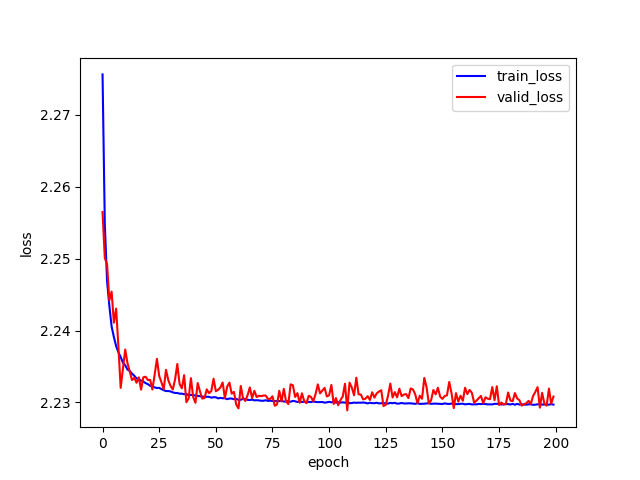
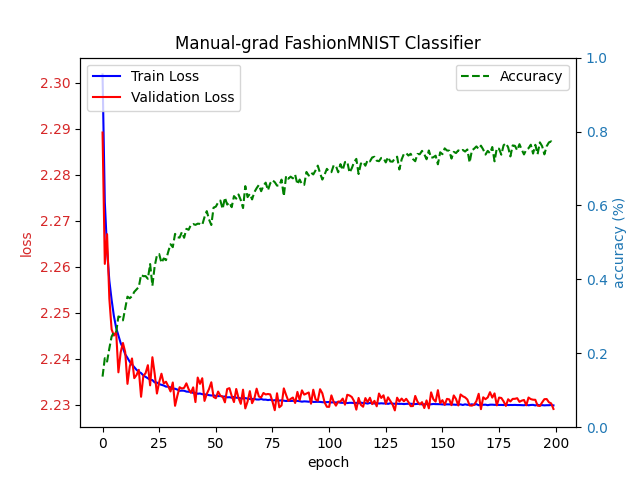
[feature - ch4] Add accuracy metric line to evaluation plot.

diff --git a/chapter-4_linear-neural-networks-for-classification/manual_grad_image_classifier.py b/chapter-4_linear-neural-networks-for-classification/manual_grad_image_classifier.py
@@ -12,11 +12,9 @@ import matplotlib.pyplot as plt
 from loguru import logger
 
 
-class FashionMNIST:
-    labels = (
-        't-shirt', 'trouser', 'pullover', 'dress', 'coat',
-        'sandal', 'shirt', 'sneaker', 'bag', 'ankle boot'
-    )
+class FashionMNISTDataset:
+    """FashionMNIST dataset with image resizing and visualization."""
+    labels = datasets.FashionMNIST.classes
 
     def __init__(
         self,
@@ -33,17 +31,21 @@ class FashionMNIST:
 
     def get_data_loader(self, train: bool = True) -> DataLoader:
         """
-        Each row is a list, in which:
-            #0 is tensor X, its shape = n * 1 * width * height
-            #1 is tensor y, its shape = n * 1, values are indices like [9, 2, ...]
+        Returns a DataLoader object for the dataset.
+
+        Each DataLoader object yields a tuple of two tensors:
+        - X: Image tensor of shape (batch_size, 1, width, height)
+        - y: Label tensor of shape (batch_size,)
         """
         dataset = self.train if train else self.valid
         return DataLoader(dataset, self.batch_size, shuffle=train)
 
     def text_labels(self, indices: torch.Tensor) -> list[str]:
+        """Returns the text labels for the given indices."""
         return [self.labels[int(i)] for i in indices]
 
     def one_hot_labels(self, indices: torch.Tensor) -> torch.Tensor:
+        """Returns one-hot encoded labels for the given indices."""
         rows = len(indices)
         labels = torch.zeros(size=(rows, len(self.labels)))
         for row in range(rows):
@@ -57,10 +59,14 @@ class FashionMNIST:
         num_rows: int,
         num_cols: int,
         titles: list[str] | None = None,
-        scale: float = 2.0
+        scale: float = 2.0,
+        row_spacing: float = 0.5,
     ) -> None:
         figsize = (num_cols * scale, num_rows * scale)
-        _, axes = plt.subplots(num_rows, num_cols, figsize=figsize)
+        _, axes = plt.subplots(num_rows,
+                               num_cols,
+                               figsize=figsize,
+                               gridspec_kw={'hspace': row_spacing})
         axes = axes.flatten()
         for i, (ax, image) in enumerate(zip(axes, images)):
             image = image.numpy().squeeze()
@@ -81,7 +87,7 @@ class FashionMNIST:
 
         if len(batch) == 3:
             X, y, y_pred = batch
-            labels = [l + '\n' + pl
+            labels = ['Real: ' + l + '\n' + 'Pred: ' + pl
                       for l, pl in zip(self.text_labels(y),
                                        self.text_labels(y_pred))]
         elif len(batch) == 2:
@@ -124,7 +130,9 @@ class ManualGradClassifierModel(nn.Module):
         X: torch.Tensor
     ) -> torch.Tensor:
         """
-        Output shape = num_rows * num_classes
+        Forward pass of the model.
+
+        Returns the softmax of shape (num_rows, num_classes).
         """
         self._logits = X @ self._weights + self._bias
         return nn.functional.softmax(self._logits, dim=1)
@@ -175,7 +183,7 @@ class Trainer(TransformMixin):
     def __init__(
         self,
         model: ManualGradClassifierModel,
-        dataset: FashionMNIST,
+        dataset: Dataset,
         loss_measurer: nn.CrossEntropyLoss,
     ) -> None:
         self._model = model
@@ -199,6 +207,7 @@ class Trainer(TransformMixin):
 
 
 class Samples:
+    """Collects samples for correct and wrong predictions."""
     def __init__(
         self,
         max_count: int,
@@ -257,7 +266,7 @@ class Evaluator(TransformMixin):
     def __init__(
         self,
         model: ManualGradClassifierModel,
-        dataset: FashionMNIST,
+        dataset: Dataset,
         loss_measurer: nn.CrossEntropyLoss,
         num_samples: int = 8,
     ) -> None:
@@ -321,34 +330,50 @@ class Evaluator(TransformMixin):
             samples.add(x, y_, y_p_)
 
 
-class LossPlotter:
+class MetricsPlotter:
     def __init__(self) -> None:
         self._epochs = []
         self._train_losses = []
         self._evaluate_losses = []
+        self._accuracies = []
 
     def add(
         self,
         epoch: int,
         train_loss: float,
-        evaluate_loss: float
+        evaluate_loss: float,
+        accuracy: float,
     ) -> None:
         self._epochs.append(epoch)
         self._train_losses.append(train_loss)
         self._evaluate_losses.append(evaluate_loss)
+        self._accuracies.append(accuracy)
 
     def plot(self) -> None:
-        plt.xlabel('epoch')
-        plt.ylabel('loss')
-        plt.plot(self._epochs, self._train_losses, 'b', label='train_loss')
-        plt.plot(self._epochs, self._evaluate_losses, 'r', label='valid_loss')
-        plt.legend()
-        plt.title("FashionMNIST Classifier")
+        _, ax1 = plt.subplots()
+
+        # Plot losses on the first y-axis
+        ax1.set_xlabel('epoch')
+        ax1.set_ylabel('loss', color='tab:red')
+        ax1.plot(self._epochs, self._train_losses, 'b', label='Train Loss')
+        ax1.plot(self._epochs, self._evaluate_losses, 'r', label='Validation Loss')
+        ax1.tick_params(axis='y', labelcolor='tab:red')
+        ax1.legend(loc='upper left')
+
+        # Create a second y-axis for accuracy
+        ax2 = ax1.twinx()
+        ax2.set_ylabel('accuracy (%)', color='tab:blue')
+        ax2.plot(self._epochs, self._accuracies, 'g', label='Accuracy', linestyle='--')
+        ax2.tick_params(axis='y', labelcolor='tab:blue')
+        ax2.set_ylim(0, 1.0)
+        ax2.legend(loc='upper right')
+
+        plt.title("Manual-grad FashionMNIST Classifier")
         plt.show()
 
 
 def main(
-    show_examples: bool = False
+    preview_dataset: bool = True
 ) -> None:
     num_channels = 1
     width = 32
@@ -357,10 +382,10 @@ def main(
     max_epochs = 200
     learning_rate = 0.01
 
-    dataset = FashionMNIST(resize=(width, height))
-    if show_examples:
+    dataset = FashionMNISTDataset(resize=(width, height))
+    if preview_dataset:
         batch = next(iter(dataset.get_data_loader(False)))
-        dataset.visualize(batch[:16])
+        dataset.visualize(batch)
 
     num_classes = len(dataset.labels)
     model = ManualGradClassifierModel(
@@ -369,16 +394,14 @@ def main(
     loss_measurer = nn.CrossEntropyLoss()
     trainer = Trainer(model, dataset, loss_measurer)
     evaluator = Evaluator(model, dataset, loss_measurer, num_samples)
-    plotter = LossPlotter()
+    plotter = MetricsPlotter()
 
     for epoch in range(max_epochs):
         train_loss = trainer.train()
         evaluator.evaluate()
-        evaluate_loss = evaluator.loss
-        accuracy = evaluator.accuracy
         logger.info("epoch #{}, train_loss = {}, evaluate_loss = {}, accuracy = {}",
-                    epoch, train_loss, evaluate_loss, accuracy)
-        plotter.add(epoch, train_loss, evaluate_loss)
+                    epoch, train_loss, evaluator.loss, evaluator.accuracy)
+        plotter.add(epoch, train_loss, evaluator.loss, evaluator.accuracy)
 
     dataset.visualize(evaluator.samples)
     plotter.plot()
@@ -389,4 +412,4 @@ def main(
 
 
 if __name__ == "__main__":
-    main(True)
+    main()
